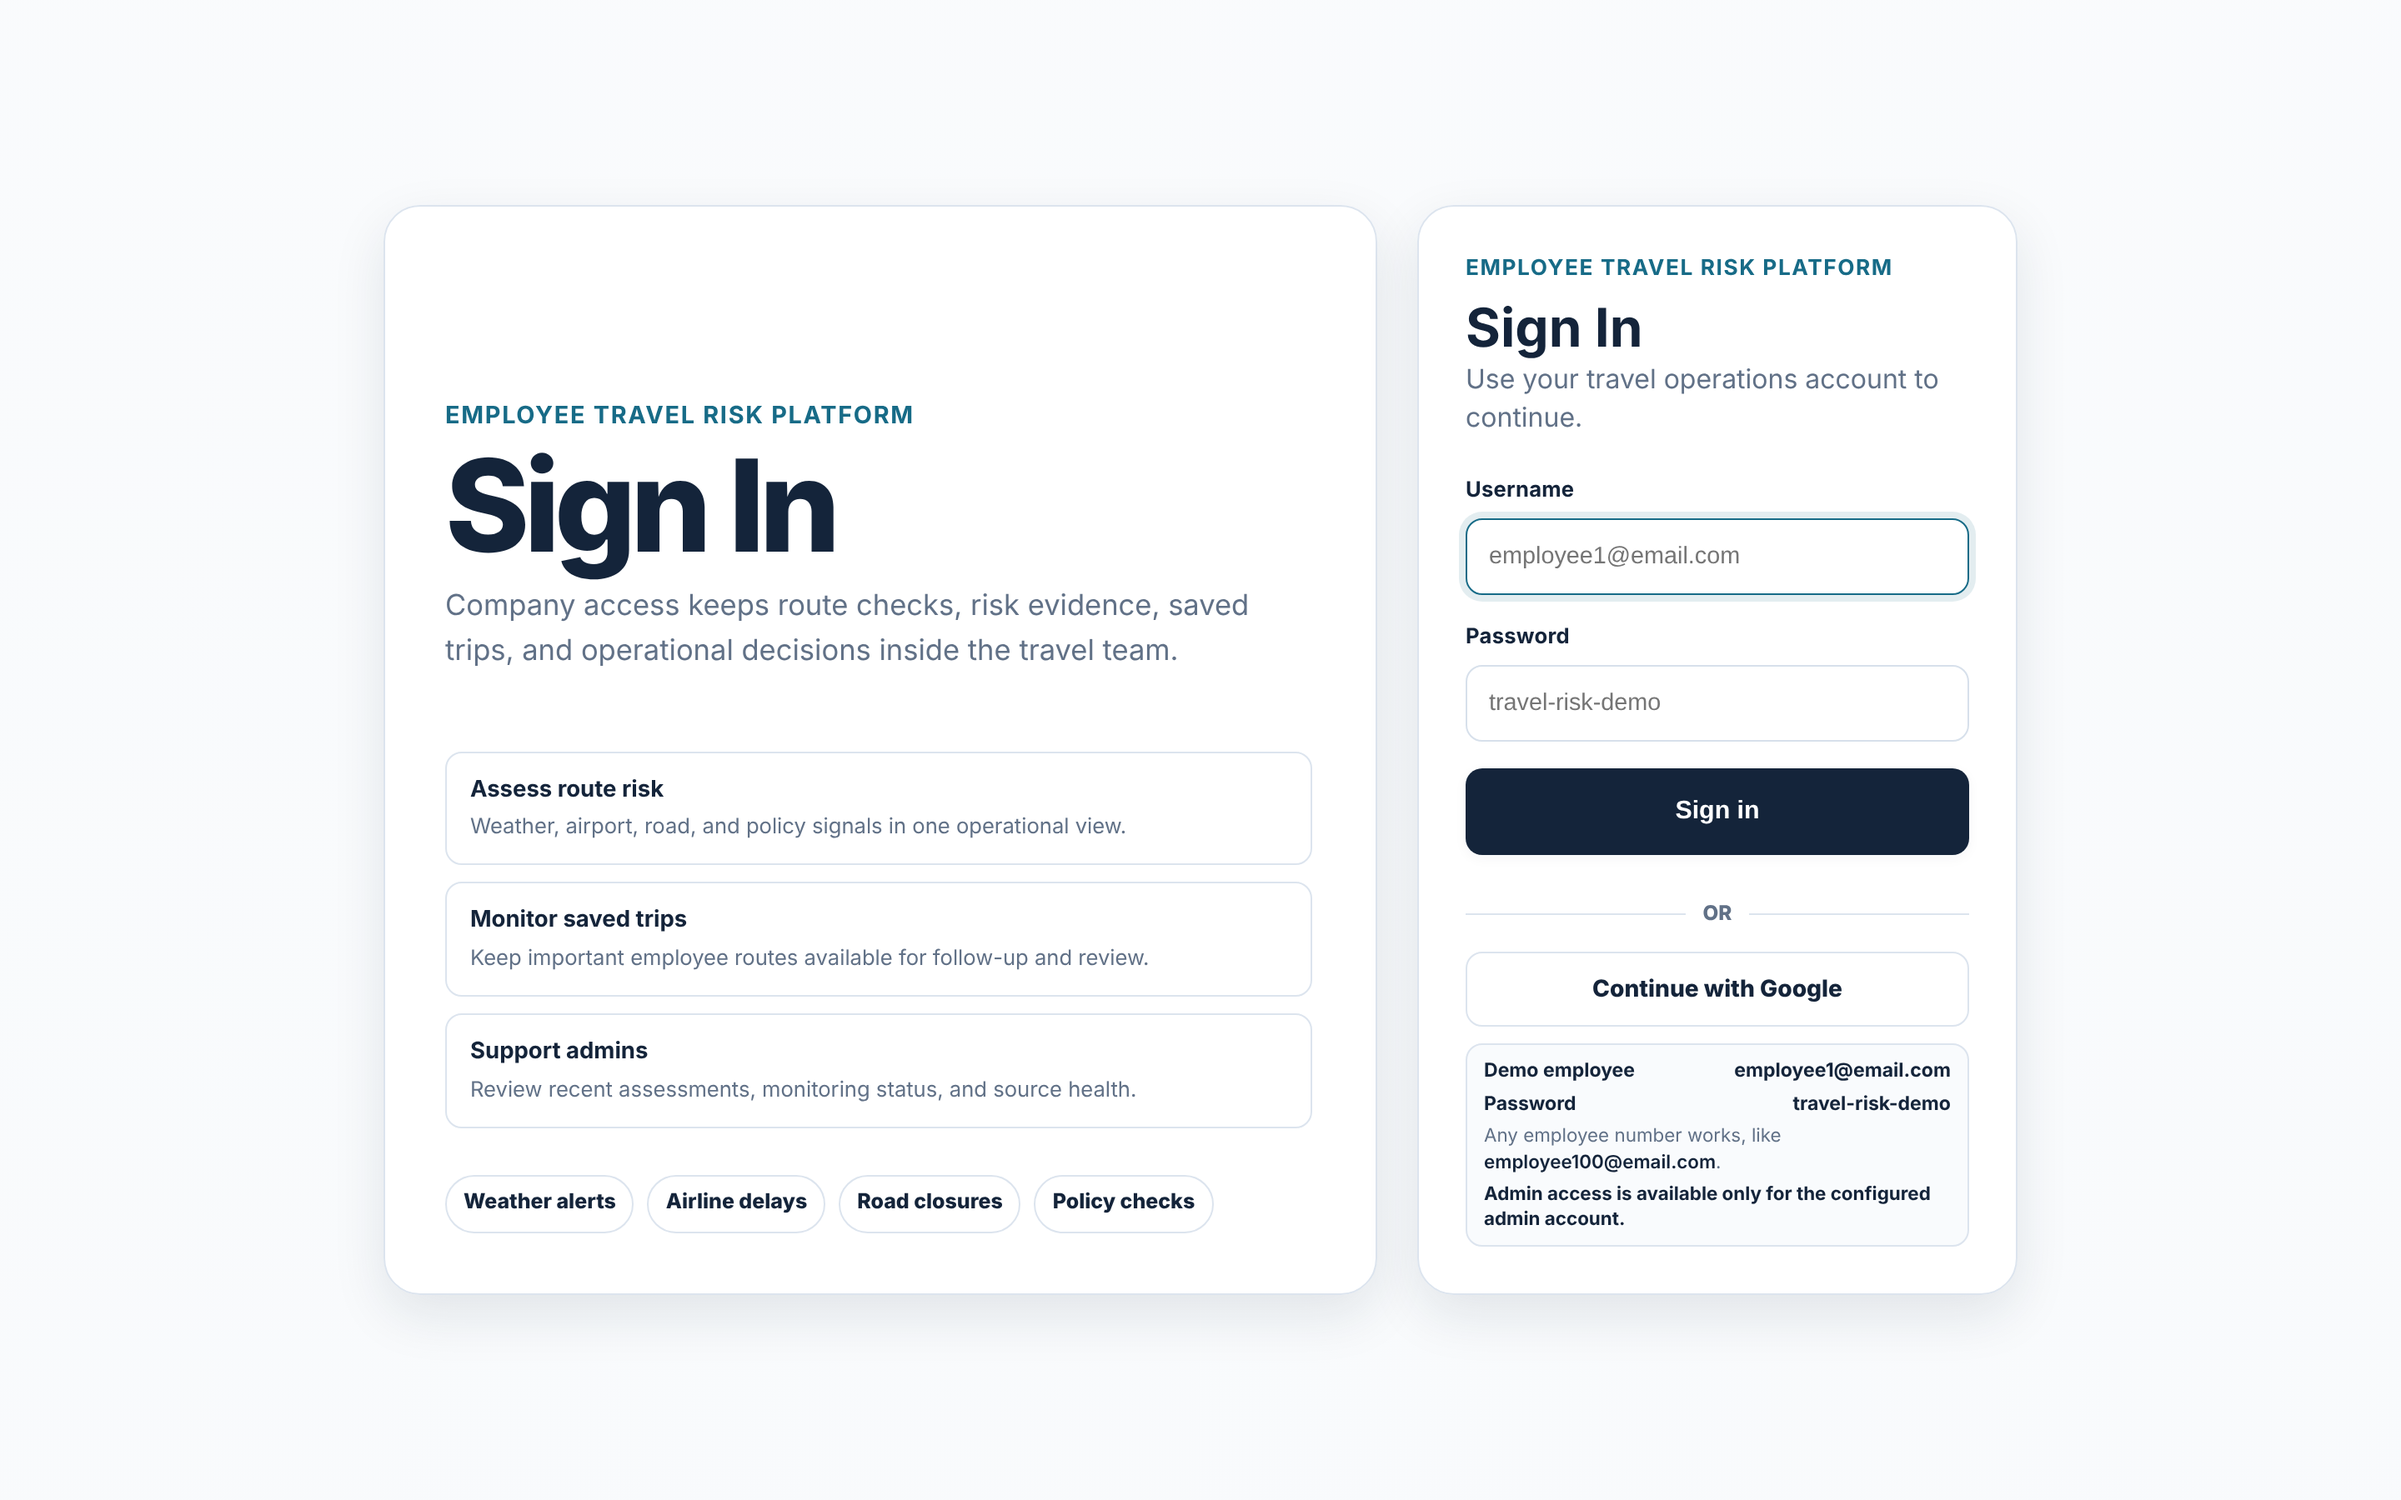
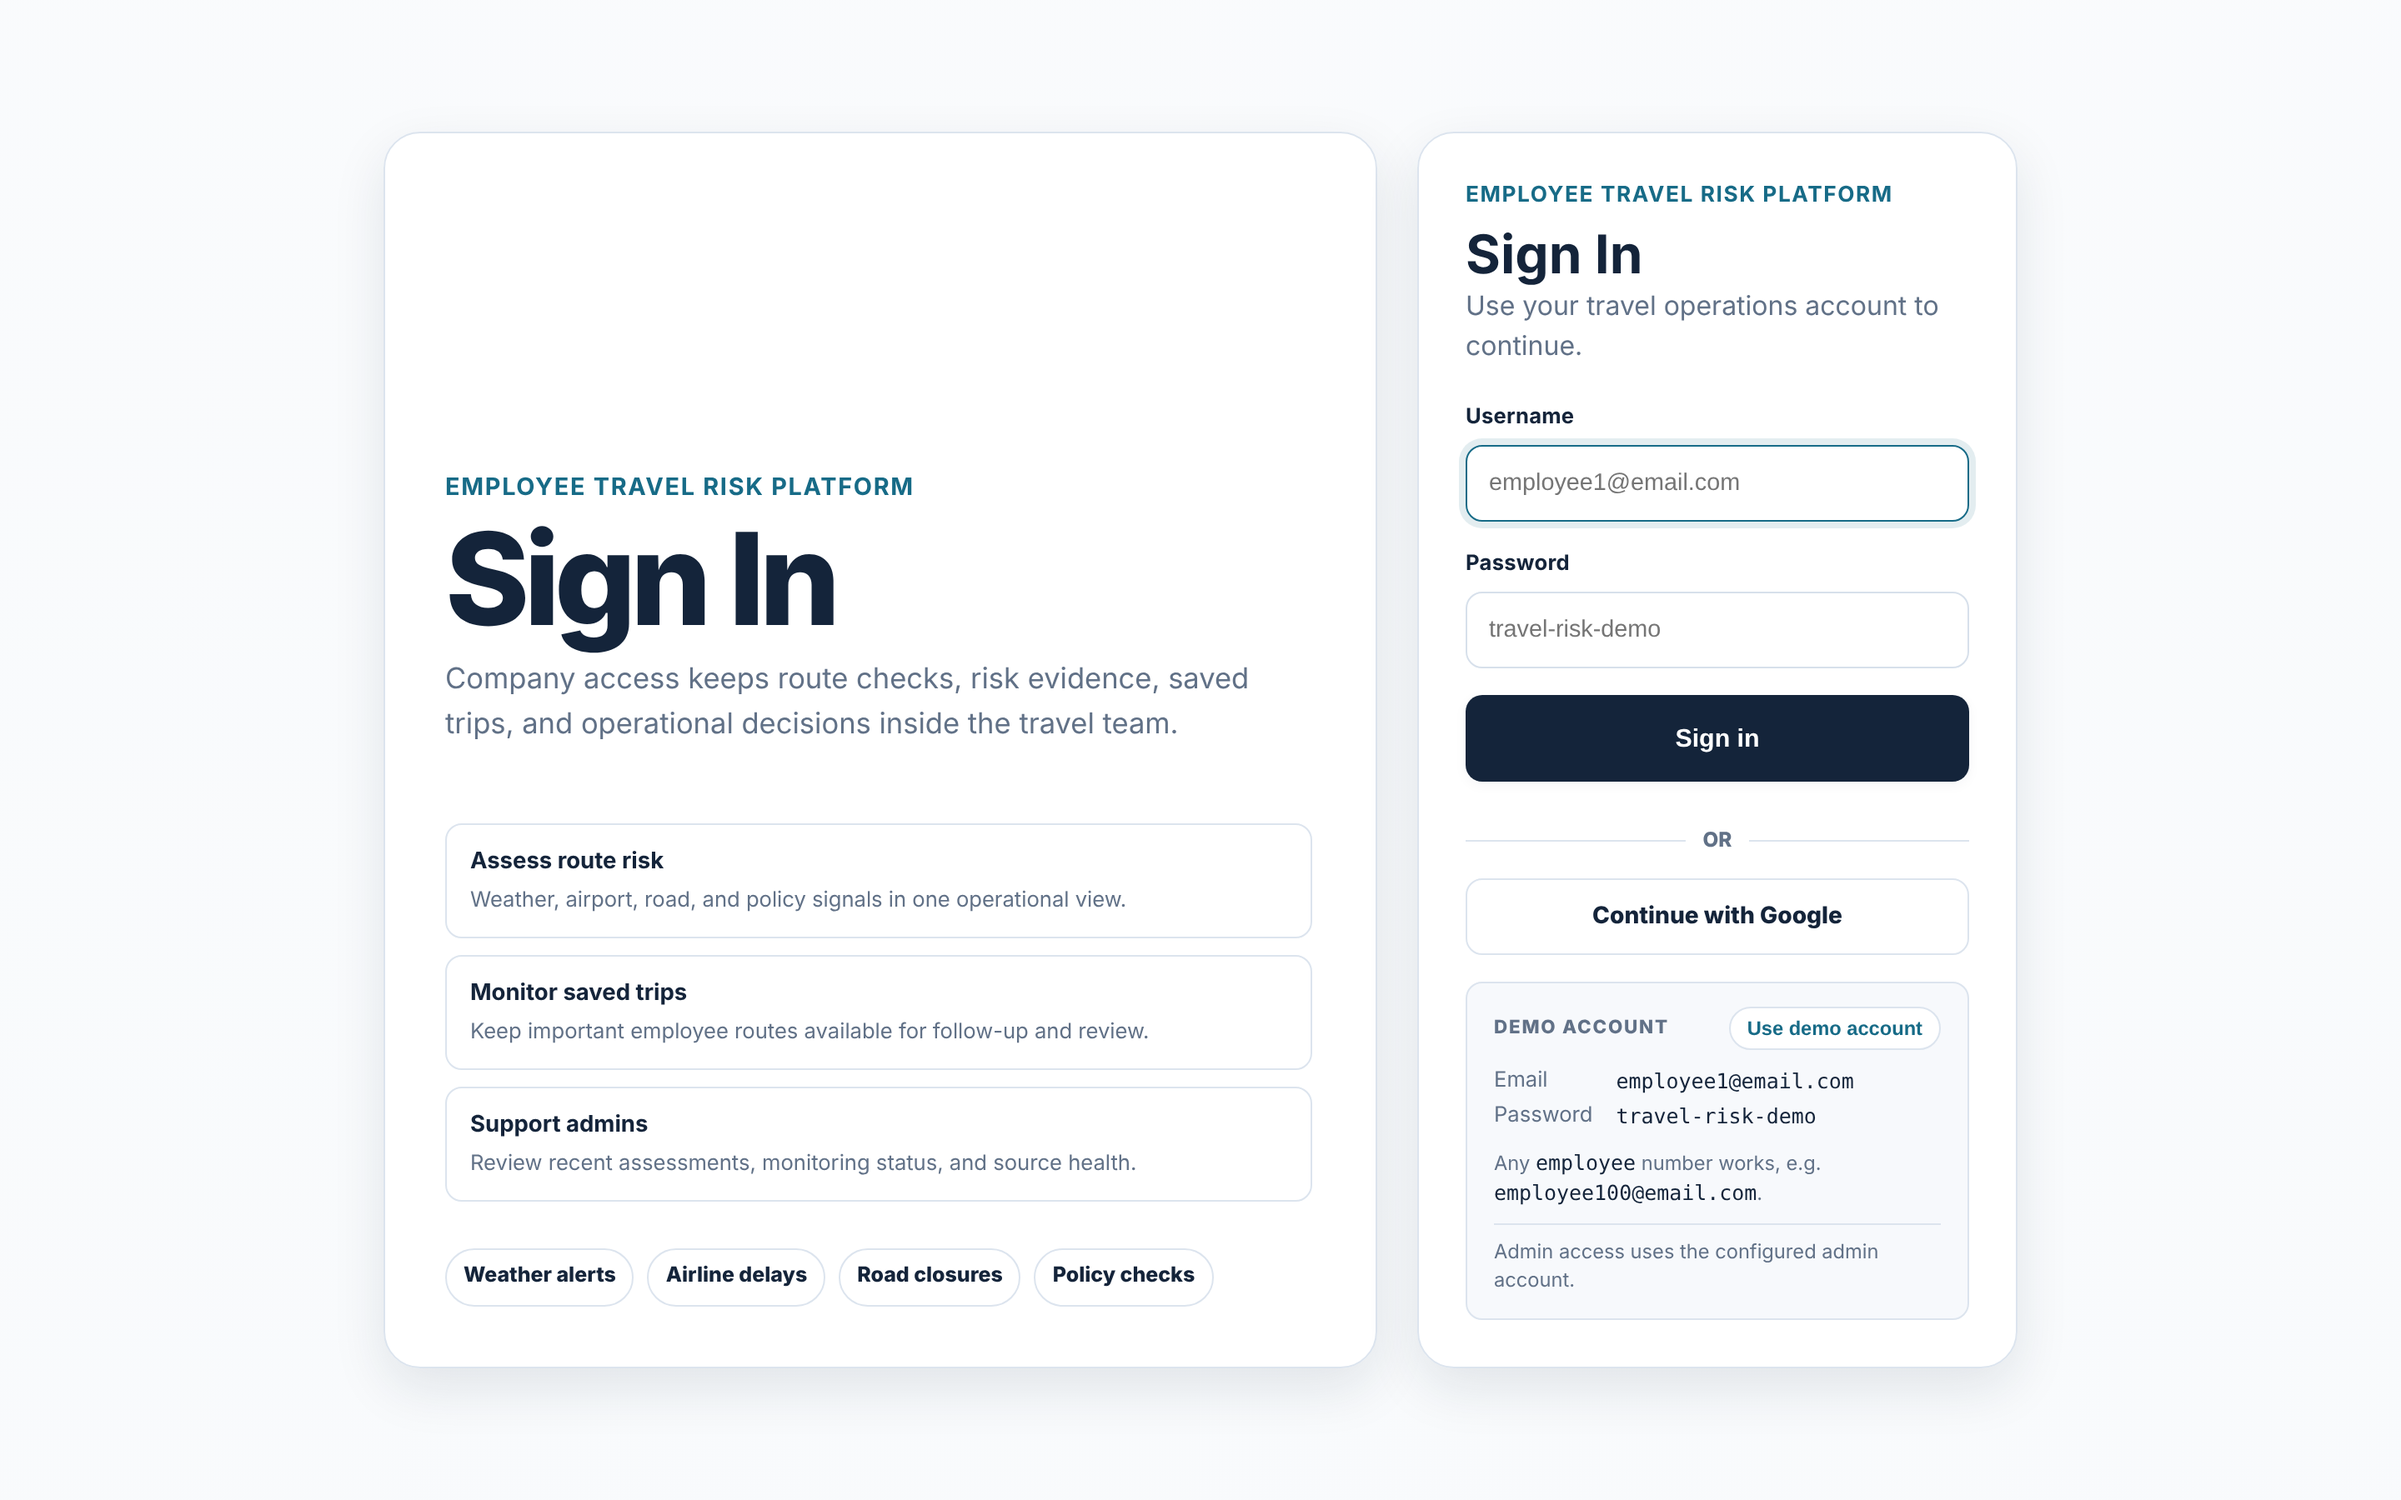
Tidy the demo credentials card on the login page
Replace the cramped demo box with a quieter card: a small heading,
aligned monospace credentials, a one-click button that fills the
sign-in form, a shorter hint and a muted admin note. Refresh the
README login screenshot.

Claude-Session: https://claude.ai/code/session_01SVyUdMpNFU9eprA4gDo3ue

diff --git a/src/main/resources/static/styles.css b/src/main/resources/static/styles.css
@@ -209,44 +209,84 @@ body {
 
 .login-demo-note {
     display: grid;
-    gap: 4px;
-    margin-top: 10px;
-    padding: 8px 10px;
+    gap: 10px;
+    margin-top: 16px;
+    padding: 14px 16px;
     border: 1px solid var(--border-color);
     border-radius: var(--radius-sm);
-    background: rgba(248, 250, 252, 0.8);
-    font-size: 0.72rem;
-    line-height: 1.35;
+    background: var(--bg-subtle);
+    font-size: 0.8rem;
+    line-height: 1.4;
 }
 
-.login-demo-note p {
-    margin: 0;
-}
-
-.login-demo-note p:nth-child(-n + 2) {
+.login-demo-header {
     display: flex;
+    align-items: center;
     justify-content: space-between;
     gap: 10px;
 }
 
-.login-demo-note p:nth-child(n + 3) {
+.login-demo-header h3 {
+    margin: 0;
     color: var(--text-muted);
     font-size: 0.7rem;
+    font-weight: 800;
+    letter-spacing: 0.08em;
+    text-transform: uppercase;
 }
 
-.login-demo-note strong {
-    color: var(--text-main);
-}
-
-.login-demo-note p:nth-child(-n + 2) span,
-.login-demo-note p:nth-child(n + 3) strong {
-    color: var(--text-main);
+.login-demo-fill {
+    width: auto;
+    min-height: 0;
+    padding: 5px 10px;
+    border: 1px solid var(--border-color);
+    border-radius: 999px;
+    background: var(--bg-card);
+    box-shadow: none;
+    color: var(--accent);
+    font-size: 0.74rem;
     font-weight: 700;
+    cursor: pointer;
 }
 
-.login-demo-note p:nth-child(n + 3) span {
+.login-demo-fill:hover {
+    border-color: var(--accent);
+    background: var(--bg-card);
+}
+
+.login-demo-creds {
+    display: grid;
+    grid-template-columns: auto minmax(0, 1fr);
+    gap: 4px 14px;
+    margin: 0;
+}
+
+.login-demo-creds dt {
+    color: var(--text-muted);
+}
+
+.login-demo-creds dd {
+    margin: 0;
+    overflow-wrap: anywhere;
+}
+
+.login-demo-creds dd,
+.login-demo-hint code {
     color: var(--text-main);
-    font-weight: 600;
+    font-family: ui-monospace, SFMono-Regular, Menlo, Consolas, monospace;
+    font-size: 0.78rem;
+}
+
+.login-demo-hint,
+.login-demo-admin {
+    margin: 0;
+    color: var(--text-muted);
+    font-size: 0.74rem;
+}
+
+.login-demo-admin {
+    padding-top: 8px;
+    border-top: 1px solid var(--border-color);
 }
 
 .login-form {

diff --git a/src/main/resources/static/login.html b/src/main/resources/static/login.html
@@ -56,18 +56,33 @@
     <div class="sso-divider"><span>or</span></div>
     <a class="sso-button" href="/oauth2/authorization/google">Continue with Google</a>
 
-    <div class="login-demo-note" aria-label="Demo credentials">
-      <p><strong>Demo employee</strong><span>employee1@email.com</span></p>
-      <p><strong>Password</strong><span>travel-risk-demo</span></p>
-      <p>Any employee number works, like <span>employee100@email.com</span>.</p>
-      <p><strong>Admin access is available only for the configured admin account.</strong></p>
-    </div>
+    <section class="login-demo-note" aria-labelledby="demo-heading">
+      <div class="login-demo-header">
+        <h3 id="demo-heading">Demo account</h3>
+        <button type="button" class="login-demo-fill" data-demo-fill>Use demo account</button>
+      </div>
+      <dl class="login-demo-creds">
+        <dt>Email</dt>
+        <dd data-demo-username>employee1@email.com</dd>
+        <dt>Password</dt>
+        <dd data-demo-password>travel-risk-demo</dd>
+      </dl>
+      <p class="login-demo-hint">Any <code>employee</code> number works, e.g. <code>employee100@email.com</code>.</p>
+      <p class="login-demo-admin">Admin access uses the configured admin account.</p>
+    </section>
   </section>
 </main>
 <script>
   const params = new URLSearchParams(window.location.search);
   document.querySelectorAll("[data-visible-param]").forEach((item) => {
     item.hidden = !params.has(item.dataset.visibleParam);
+  });
+
+  document.querySelector("[data-demo-fill]").addEventListener("click", () => {
+    const form = document.querySelector(".login-form");
+    form.username.value = document.querySelector("[data-demo-username]").textContent.trim();
+    form.password.value = document.querySelector("[data-demo-password]").textContent.trim();
+    form.querySelector("button[type=submit]").focus();
   });
 </script>
 </body>
